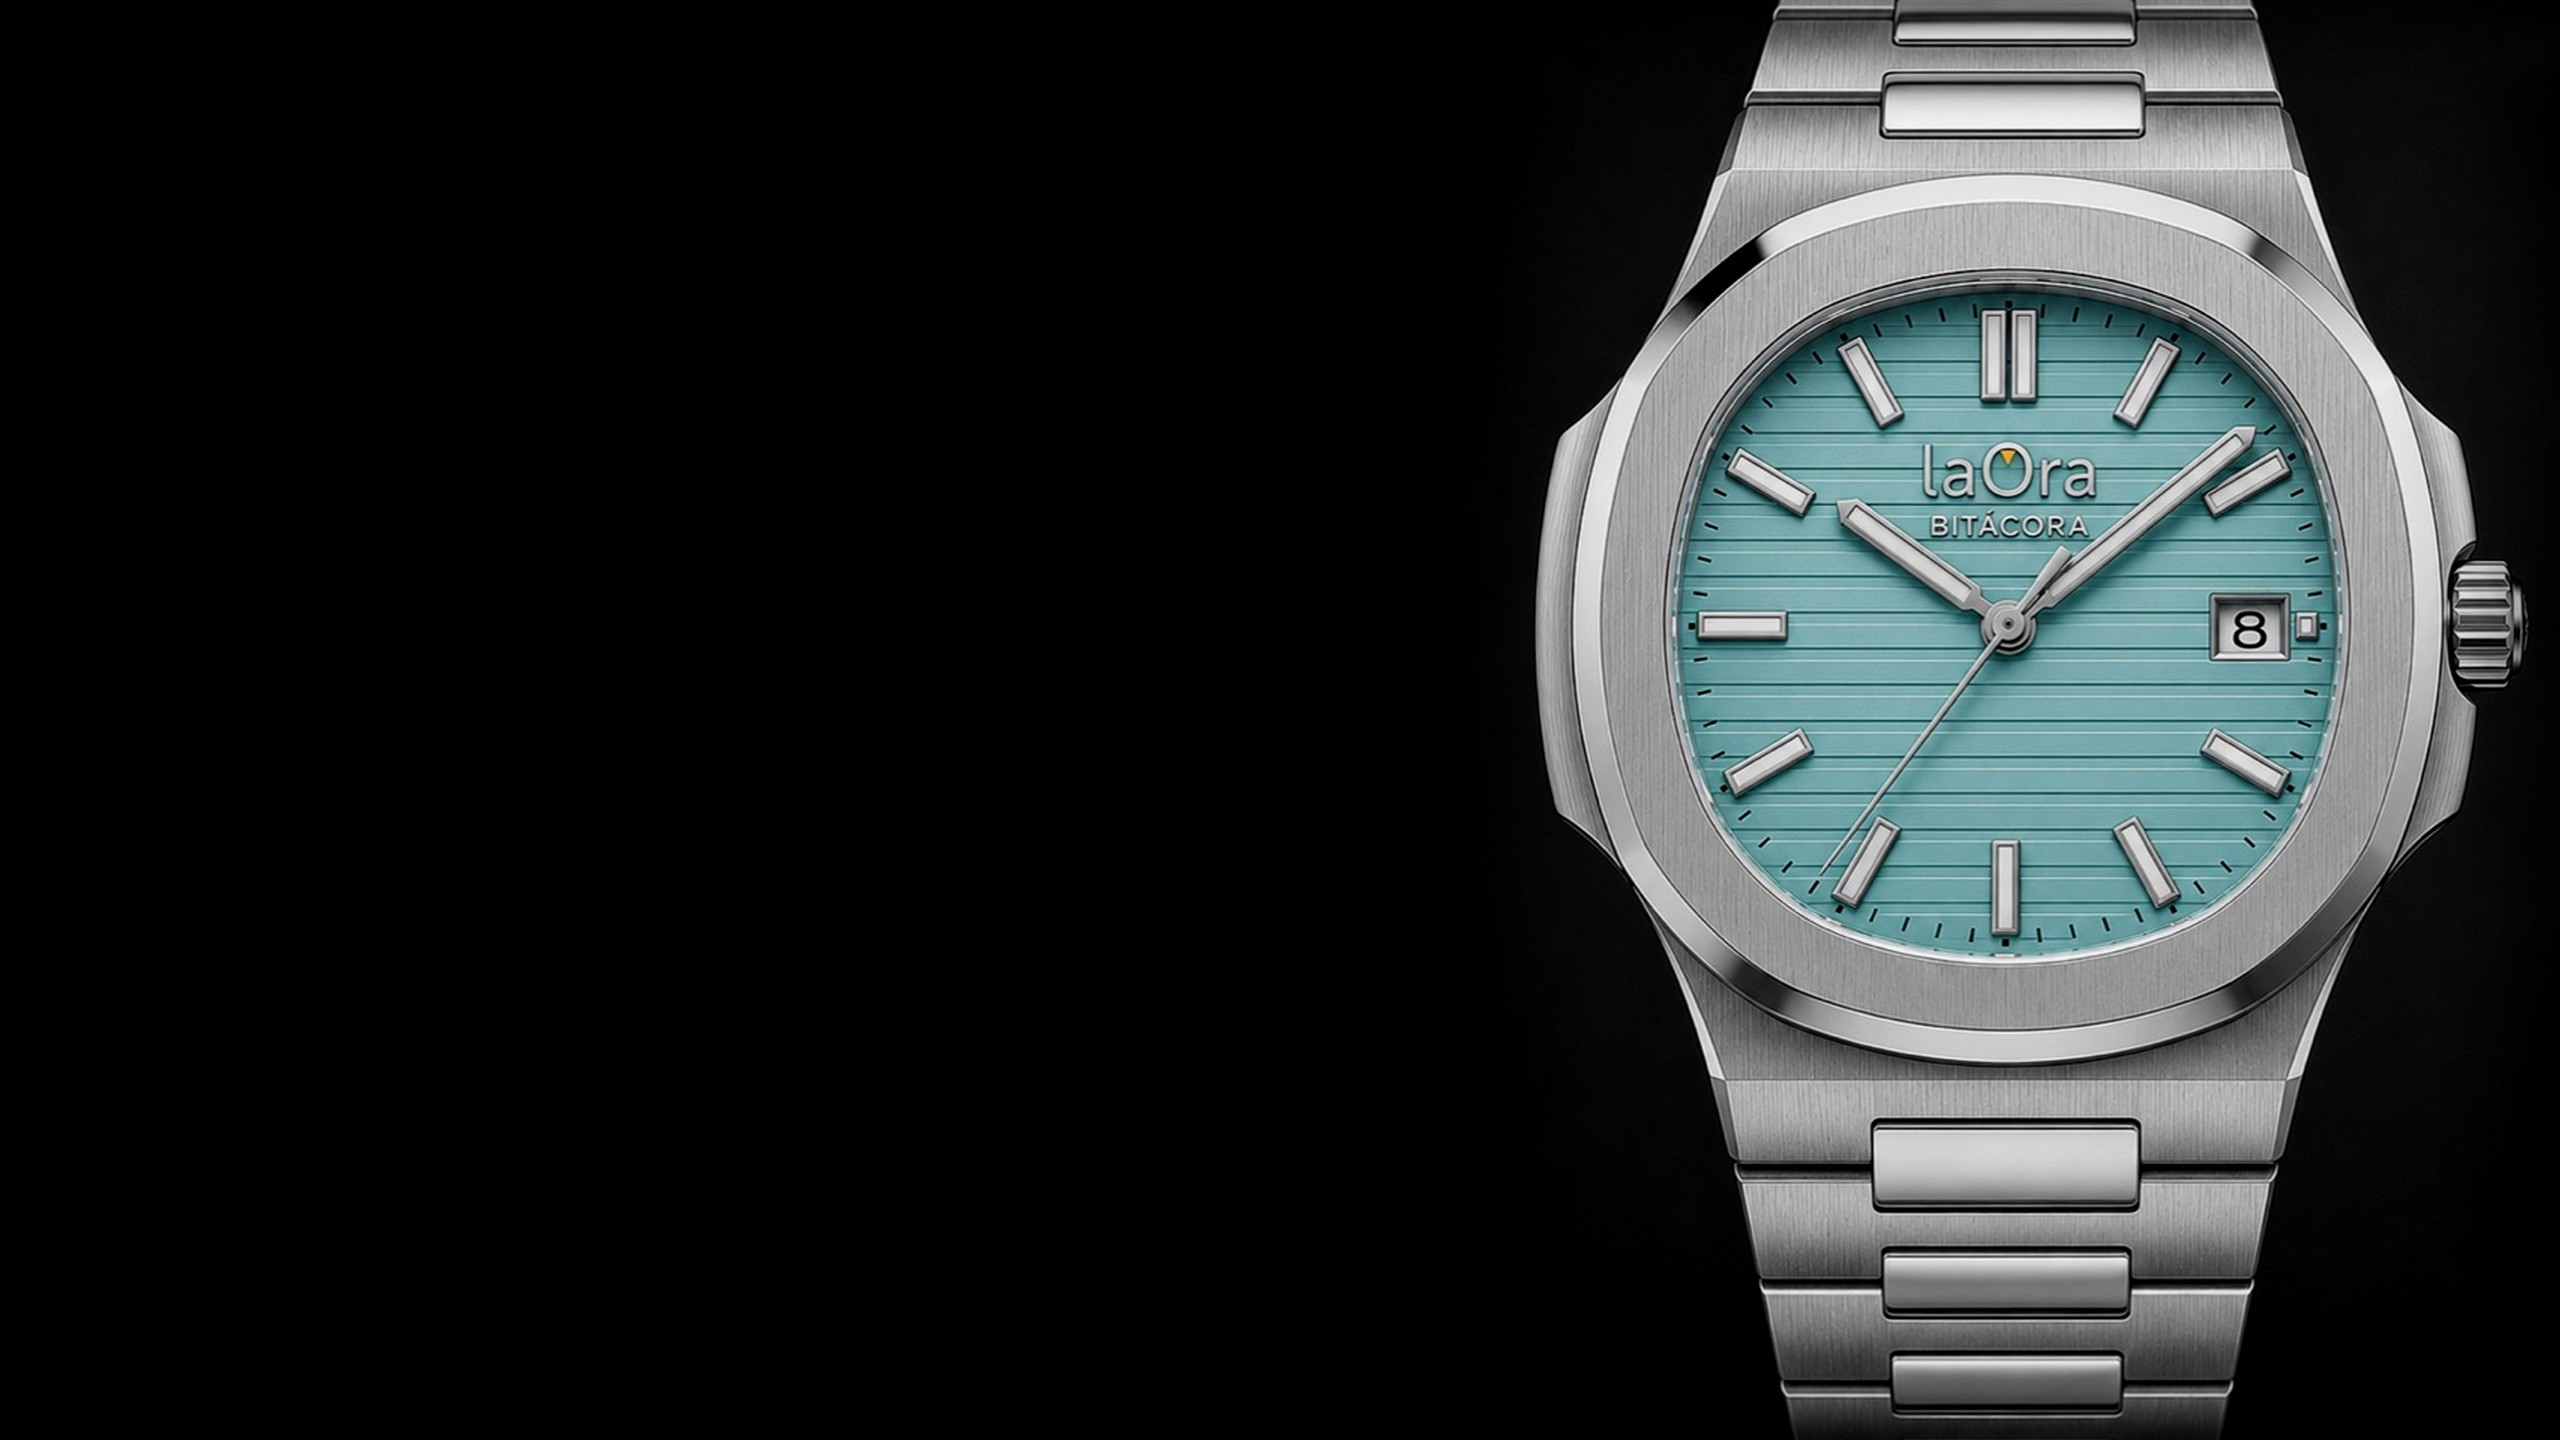
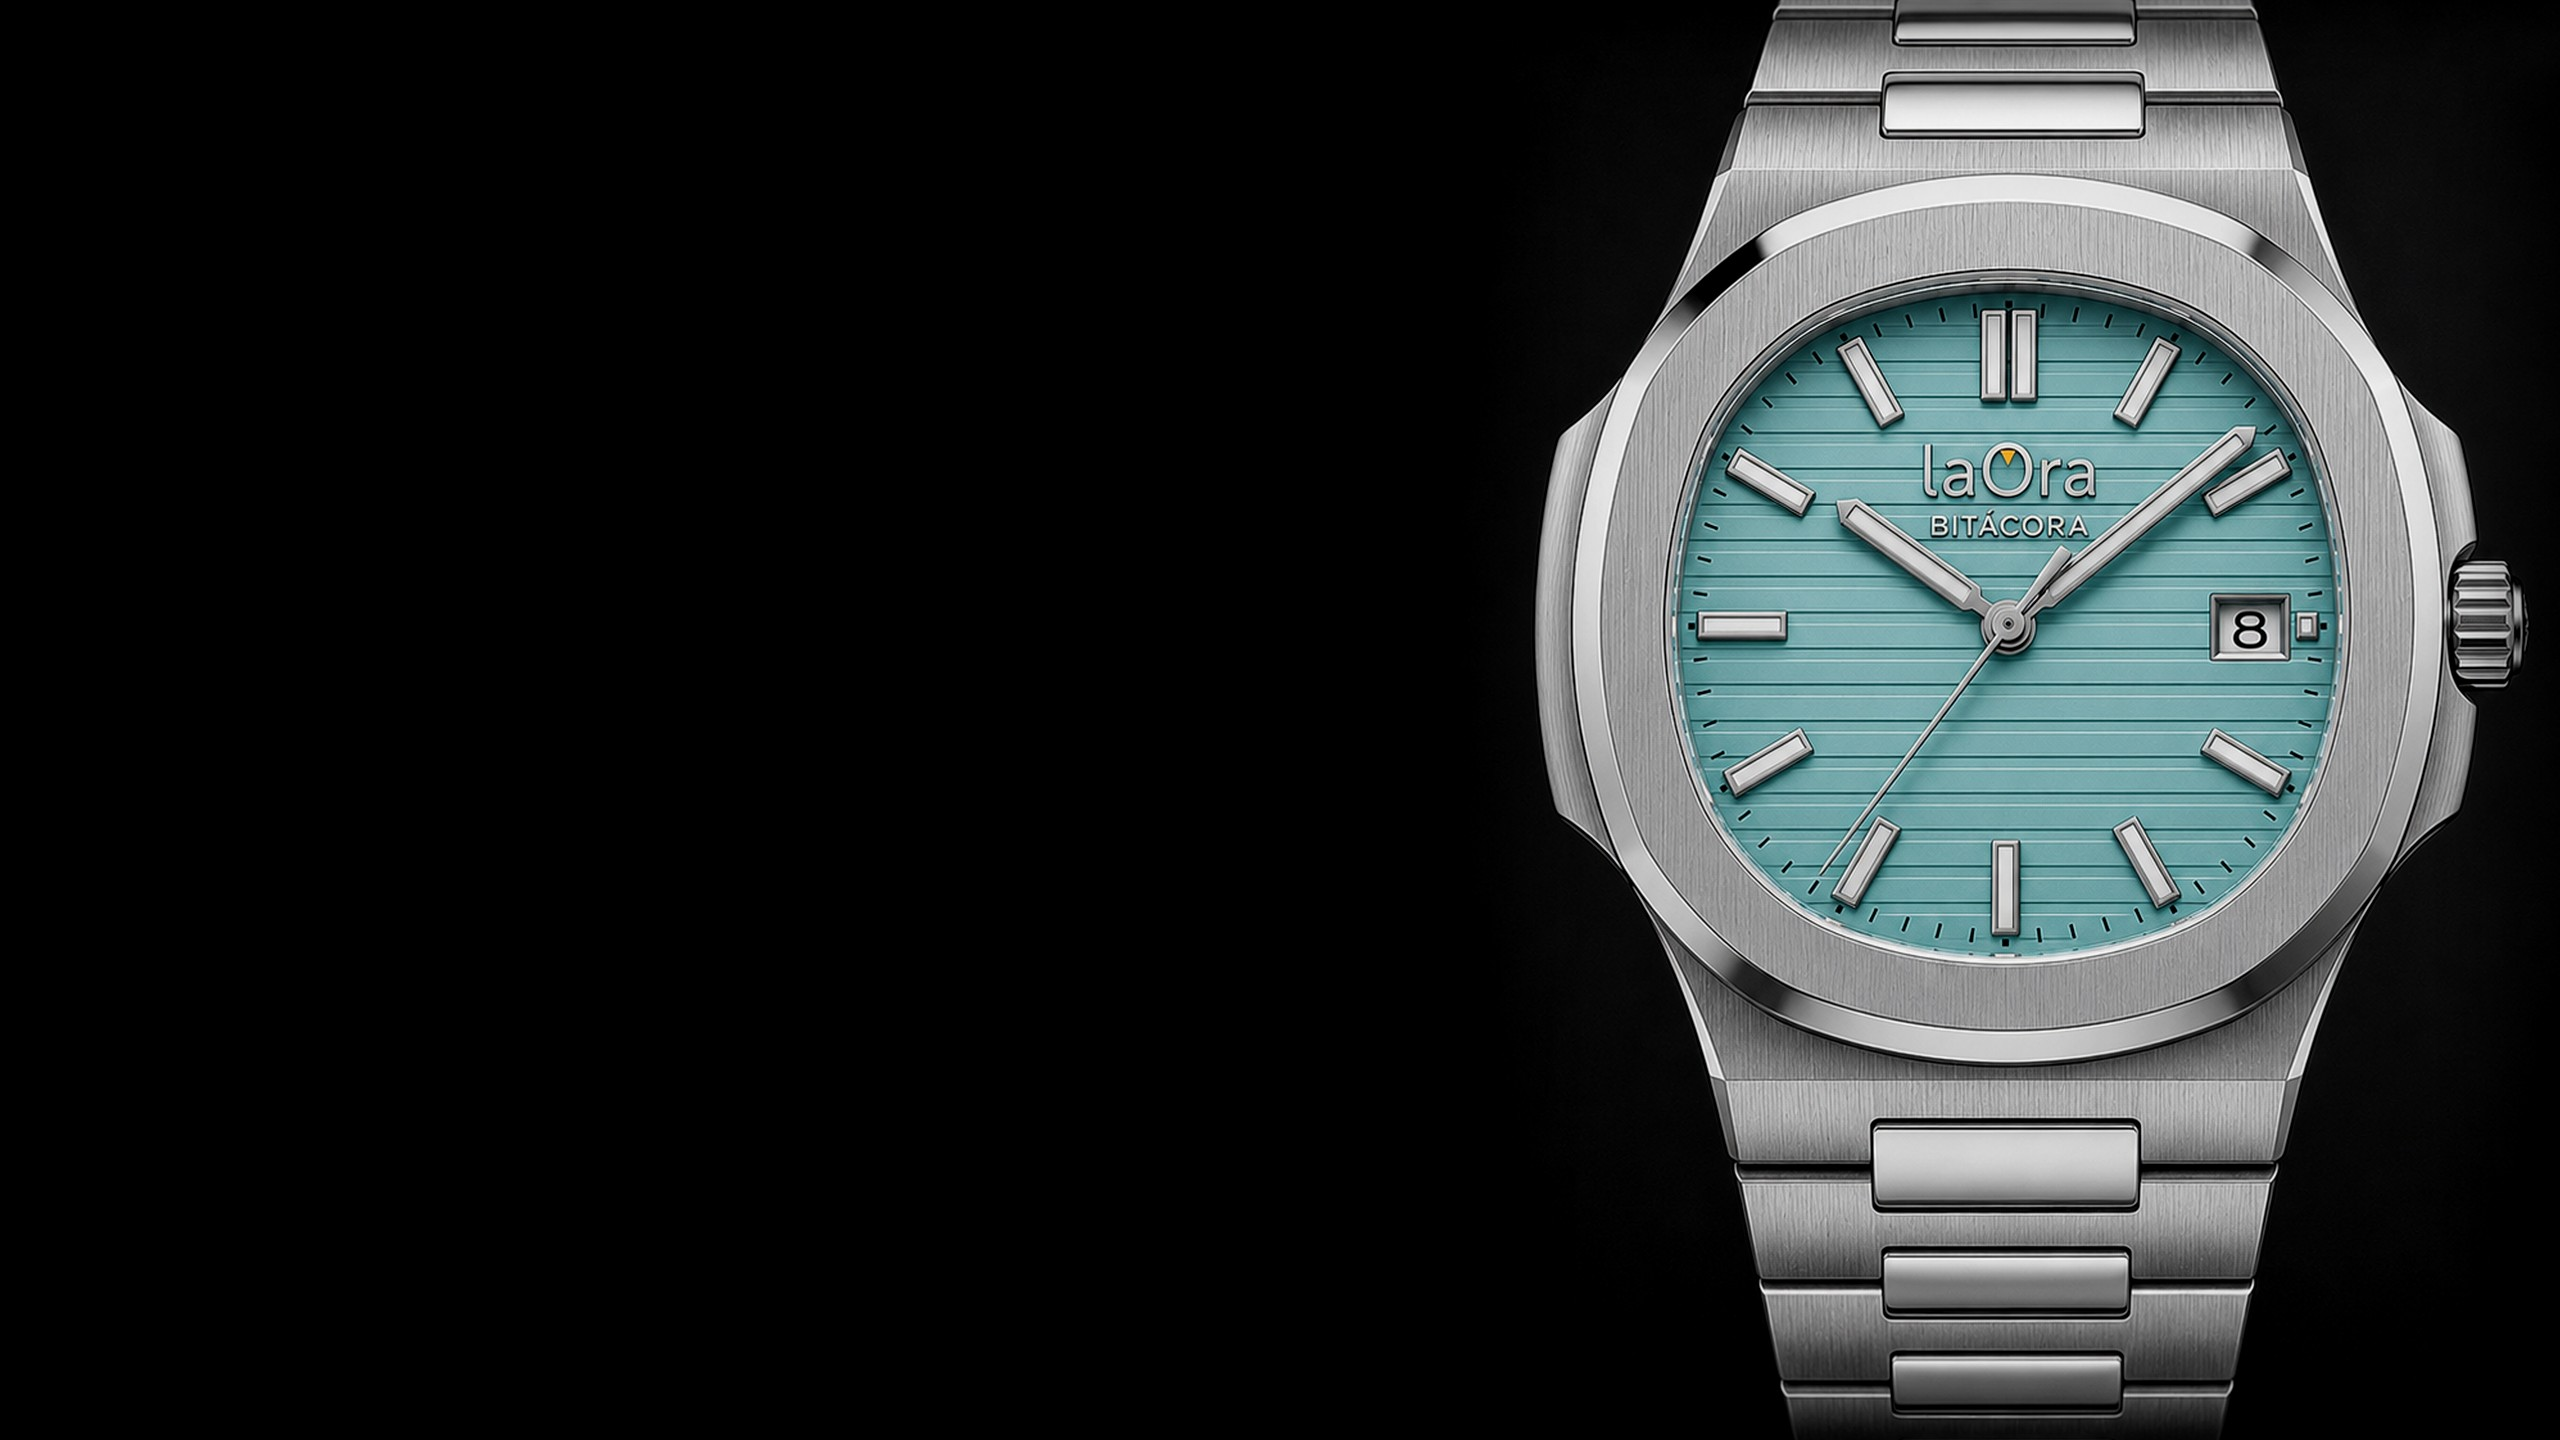
Acto I: el reloj gira sobre su eje — fusión lenta frontal y 3/4
Material nuevo de LaOra_Material (Drive): la frontal en mejor calidad
y la vista lateral en 30°, compuestas para web y móvil. Las dos capas
se funden en un ciclo de 24 segundos con transiciones de ~3 s, sobre
el giro de 2° y el destello ya existentes.

Claude-Session: https://claude.ai/code/session_01T42nA8DwhTduzUutQTTGm4

diff --git a/v2/index.html b/v2/index.html
@@ -40,11 +40,15 @@ body{
 .brand sup{font-size:.42em;font-weight:600;margin-left:2px}
 
 .hero{position:relative;height:100svh;min-height:600px}
-.hero .foto{position:absolute;inset:0;z-index:1;overflow:hidden}
-.hero .foto img{width:100%;height:100%;object-fit:cover;object-position:right center;
+.hero .foto{position:absolute;inset:0;z-index:1;overflow:hidden;
   transform-origin:72% 46%;   /* pivote: el centro del reloj */
   animation:llegar 2.8s cubic-bezier(.2,.6,.2,1) both,
             giro 13s cubic-bezier(.3,.4,.25,1) 2.8s forwards}
+.hero .foto .capa{position:absolute;inset:0}
+.hero .foto img{width:100%;height:100%;object-fit:cover;object-position:right center}
+/* el reloj gira sobre su eje: la vista frontal y la de 30° se funden muy despacio */
+.hero .foto .capaB{opacity:0;animation:fundido 24s ease-in-out 7s infinite}
+@keyframes fundido{0%,24%{opacity:0}38%,62%{opacity:1}76%,100%{opacity:0}}
 @keyframes llegar{from{opacity:0;transform:scale(1.12)}to{opacity:1;transform:scale(1.085)}}
 @keyframes giro{from{transform:scale(1.085) rotate(0deg)}to{transform:scale(1.085) rotate(2deg)}}
 /* destello: una luz recorre el acero cada ~16 s; sobre el negro no se ve */
@@ -85,7 +89,8 @@ h1{font-family:'Source Serif 4',Georgia,serif;font-weight:400;
 @media(max-width:760px){
   .marca{top:24px;left:24px}
   .brand{font-size:22px}
-  .hero .foto img{object-position:center bottom;transform-origin:58% 70%}
+  .hero .foto{transform-origin:58% 70%}
+  .hero .foto img{object-position:center bottom}
   .texto{padding:0 26px;justify-content:flex-start;padding-top:11svh;align-items:flex-start}
   .eyebrow{font-size:11px;letter-spacing:.26em}
   h1{font-size:clamp(27px,7.7vw,34px);margin-top:20px;max-width:14ch}
@@ -95,7 +100,8 @@ h1{font-family:'Source Serif 4',Georgia,serif;font-weight:400;
     margin:0;font-size:10.5px;letter-spacing:.1em}
 }
 @media(prefers-reduced-motion:reduce){
-  .hero .foto img,.hero .sheen,.texto>*{animation:none;opacity:1}
+  .hero .foto,.hero .sheen,.texto>*{animation:none;opacity:1}
+  .hero .foto .capaB{animation:none;opacity:0}
   .hero .sheen{display:none}
 }
 </style>
@@ -107,10 +113,16 @@ h1{font-family:'Source Serif 4',Georgia,serif;font-weight:400;
 </header>
 
 <main class="hero">
-  <picture class="foto">
-    <source media="(max-width:760px)" srcset="/assets/img/hero-bitacora-movil.jpg">
-    <img src="/assets/img/hero-bitacora-web.jpg" alt="Reloj laOra Bitácora de esfera turquesa sobre fondo negro" fetchpriority="high">
-  </picture>
+  <div class="foto">
+    <picture class="capa capaA">
+      <source media="(max-width:760px)" srcset="/assets/img/hero-bitacora-movil.jpg?v=2">
+      <img src="/assets/img/hero-bitacora-web.jpg?v=2" alt="Reloj laOra Bitácora de esfera turquesa sobre fondo negro" fetchpriority="high">
+    </picture>
+    <picture class="capa capaB" aria-hidden="true">
+      <source media="(max-width:760px)" srcset="/assets/img/hero-bitacora-lateral-movil.jpg">
+      <img src="/assets/img/hero-bitacora-lateral-web.jpg" alt="" loading="lazy">
+    </picture>
+  </div>
   <div class="sheen" aria-hidden="true"></div>
 
   <div class="texto">
